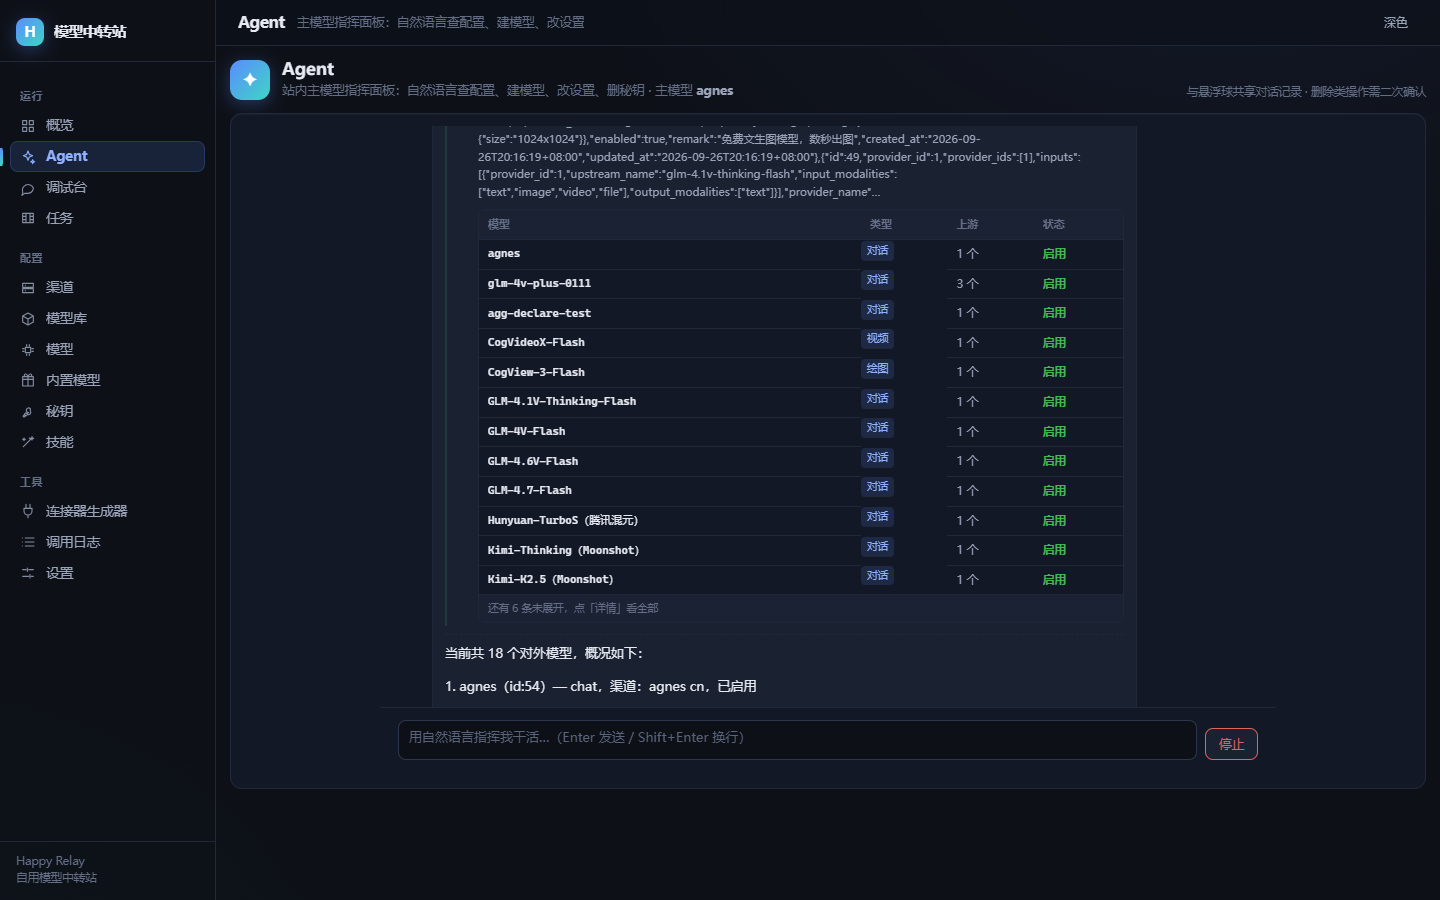
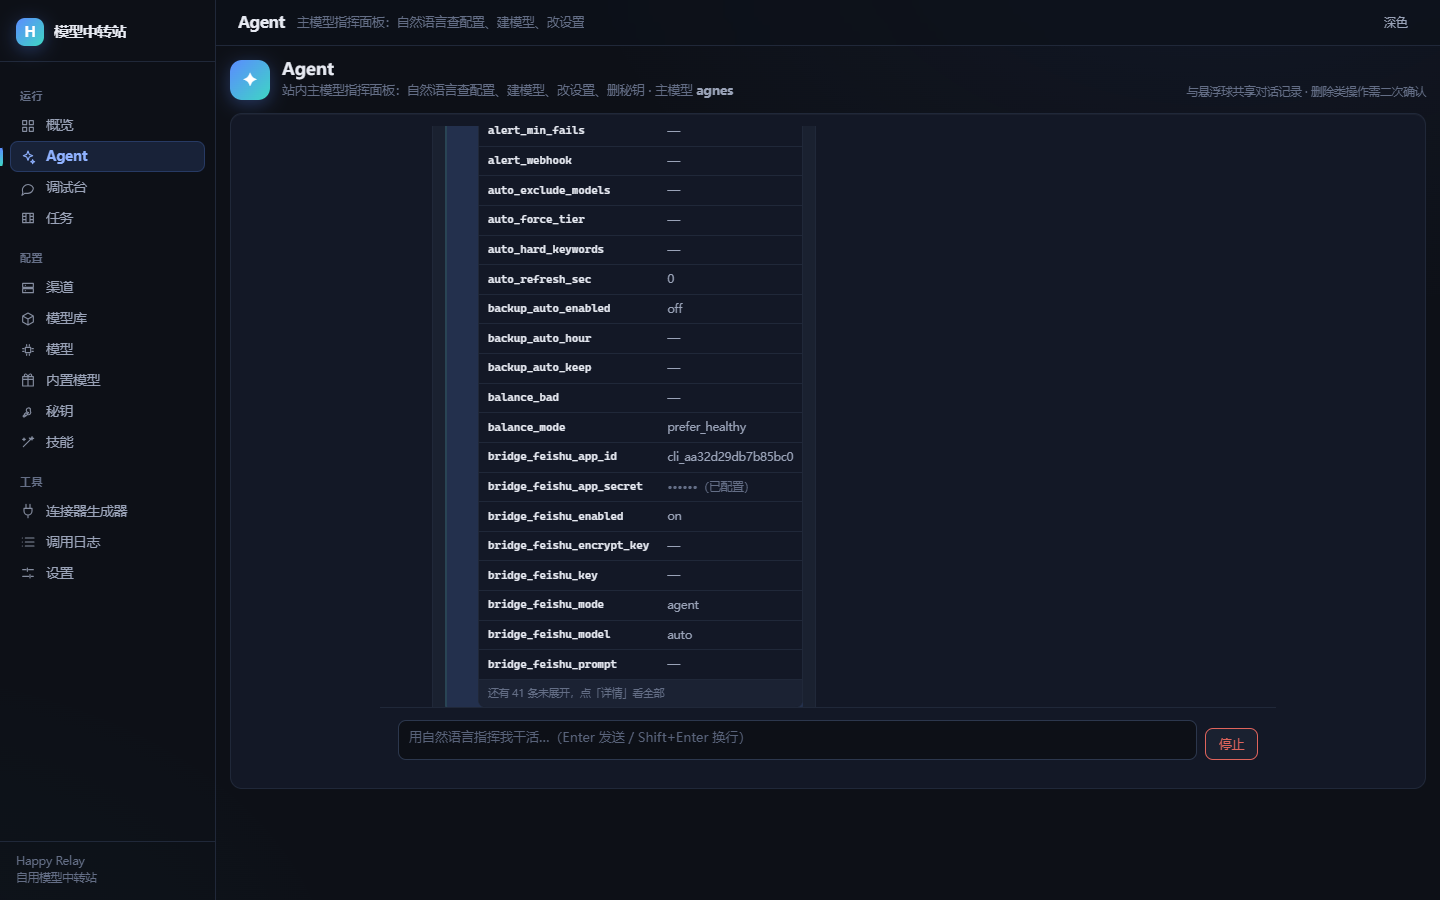
auto: happy_中转站 2026-09-27 20:29:46

diff --git a/_append_note.py b/_append_note.py
@@ -1,0 +1,15 @@
+# -*- coding: utf-8 -*-
+note = '''
+
+## Agent 工具调用富 UI（2026-09-27 晚）
+- AgentChat.vue 新增工具结果卡片渲染（tt()，WeakMap 缓存防流式重渲反复 parse）：
+  - list_models → 模型/类型/上游/状态 表格（类型徽标 对话/绘图，启用绿/停用灰）
+  - list_providers → 渠道/平台/密钥数/状态；list_keys → 秘钥/可用模型/状态；list_skills → 技能/类型/说明/状态
+  - get_settings → 键值表（kv 20 行、其余 12 行；/(secret|pass|token|key|cipher)/i 键值显示 ••••••（已配置））
+  - 其余工具保持原详情展开；原始 JSON「详情」开关保留
+- summaryShort()：富卡片存在时剪掉 summary 里的裸 JSON 尾巴（split /：\\s*[\\[{]/，纯 JSON 时显示「读取成功，结果如下」）。
+- e2e：e2e-tool-ui.mjs（6/7，1 条是 secret 在 12 行窗口外的旧断言）+ e2e-tool-ui2.mjs 4/4 PASS（打码、明文、无裸 JSON）。
+'''
+with open(r'D:/xkx/xkx_appproj/happy_中转站/.workbuddy/memory/2026-09-27.md', 'ab') as f:
+    f.write(note.encode('utf-8'))
+print('ok')

diff --git a/.workbuddy/memory/2026-09-27.md b/.workbuddy/memory/2026-09-27.md
@@ -78,3 +78,13 @@ report_last_day 去重不变）。
 ## 删除悬浮球（2026-09-27 晚）
 - App.vue 移除 <AIAssistant />，删除 components/AIAssistant.vue；Agent 入口只剩侧边栏/移动端标签栏的 /agent 独立页。
 - e2e（e2e-no-fab.mjs）：概览页无 .ai-fab、Agent 页正常（空态 5 chips + 输入框）。注意：无头浏览器新 profile 的 localStorage 为空，「历史对话」断言失败属预期，共享逻辑上一轮已验证。
+
+
+## Agent 工具调用富 UI（2026-09-27 晚）
+- AgentChat.vue 新增工具结果卡片渲染（tt()，WeakMap 缓存防流式重渲反复 parse）：
+  - list_models → 模型/类型/上游/状态 表格（类型徽标 对话/绘图，启用绿/停用灰）
+  - list_providers → 渠道/平台/密钥数/状态；list_keys → 秘钥/可用模型/状态；list_skills → 技能/类型/说明/状态
+  - get_settings → 键值表（kv 20 行、其余 12 行；/(secret|pass|token|key|cipher)/i 键值显示 ••••••（已配置））
+  - 其余工具保持原详情展开；原始 JSON「详情」开关保留
+- summaryShort()：富卡片存在时剪掉 summary 里的裸 JSON 尾巴（split /：\s*[\[{]/，纯 JSON 时显示「读取成功，结果如下」）。
+- e2e：e2e-tool-ui.mjs（6/7，1 条是 secret 在 12 行窗口外的旧断言）+ e2e-tool-ui2.mjs 4/4 PASS（打码、明文、无裸 JSON）。
